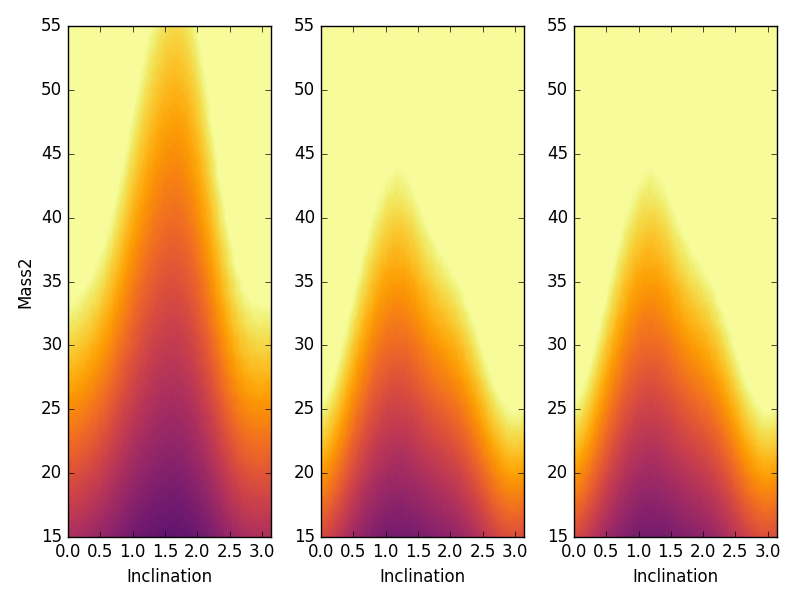
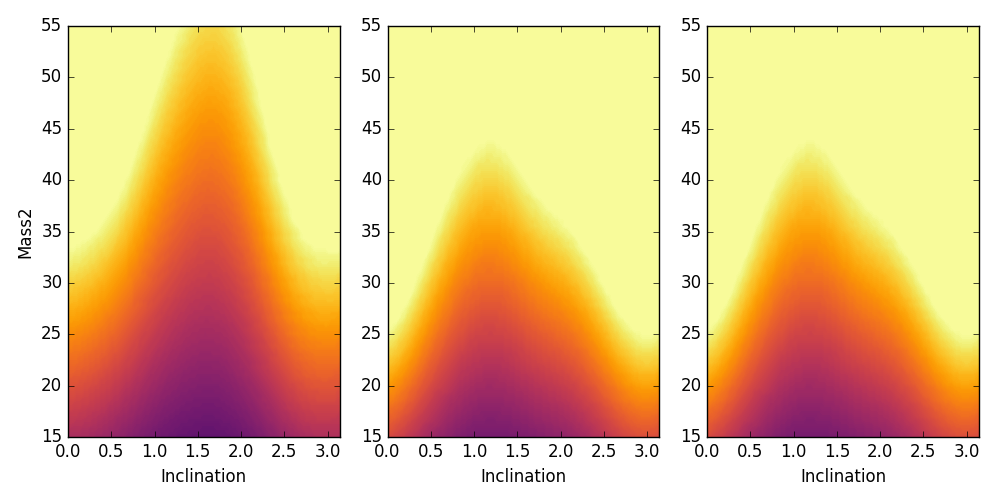
Resized plot

Changed region(s): [[0.0, 0.03, 1.0, 0.99]]

diff --git a/Matching/2D_data/spinMR.py b/Matching/2D_data/spinMR.py
@@ -17,7 +17,7 @@ x3,y,z3,specs=pickle.load(open("%s.p" % fname3,"rb"))
 m1=specs[0]
 m2=specs[1]
 
-plt.figure()
+plt.figure(figsize=(10,5))
 plt.subplot(1,3,1)
 plt.contourf(x,y,z,200,levels=levels,cmap="inferno")
 plt.ylabel("Mass2")
